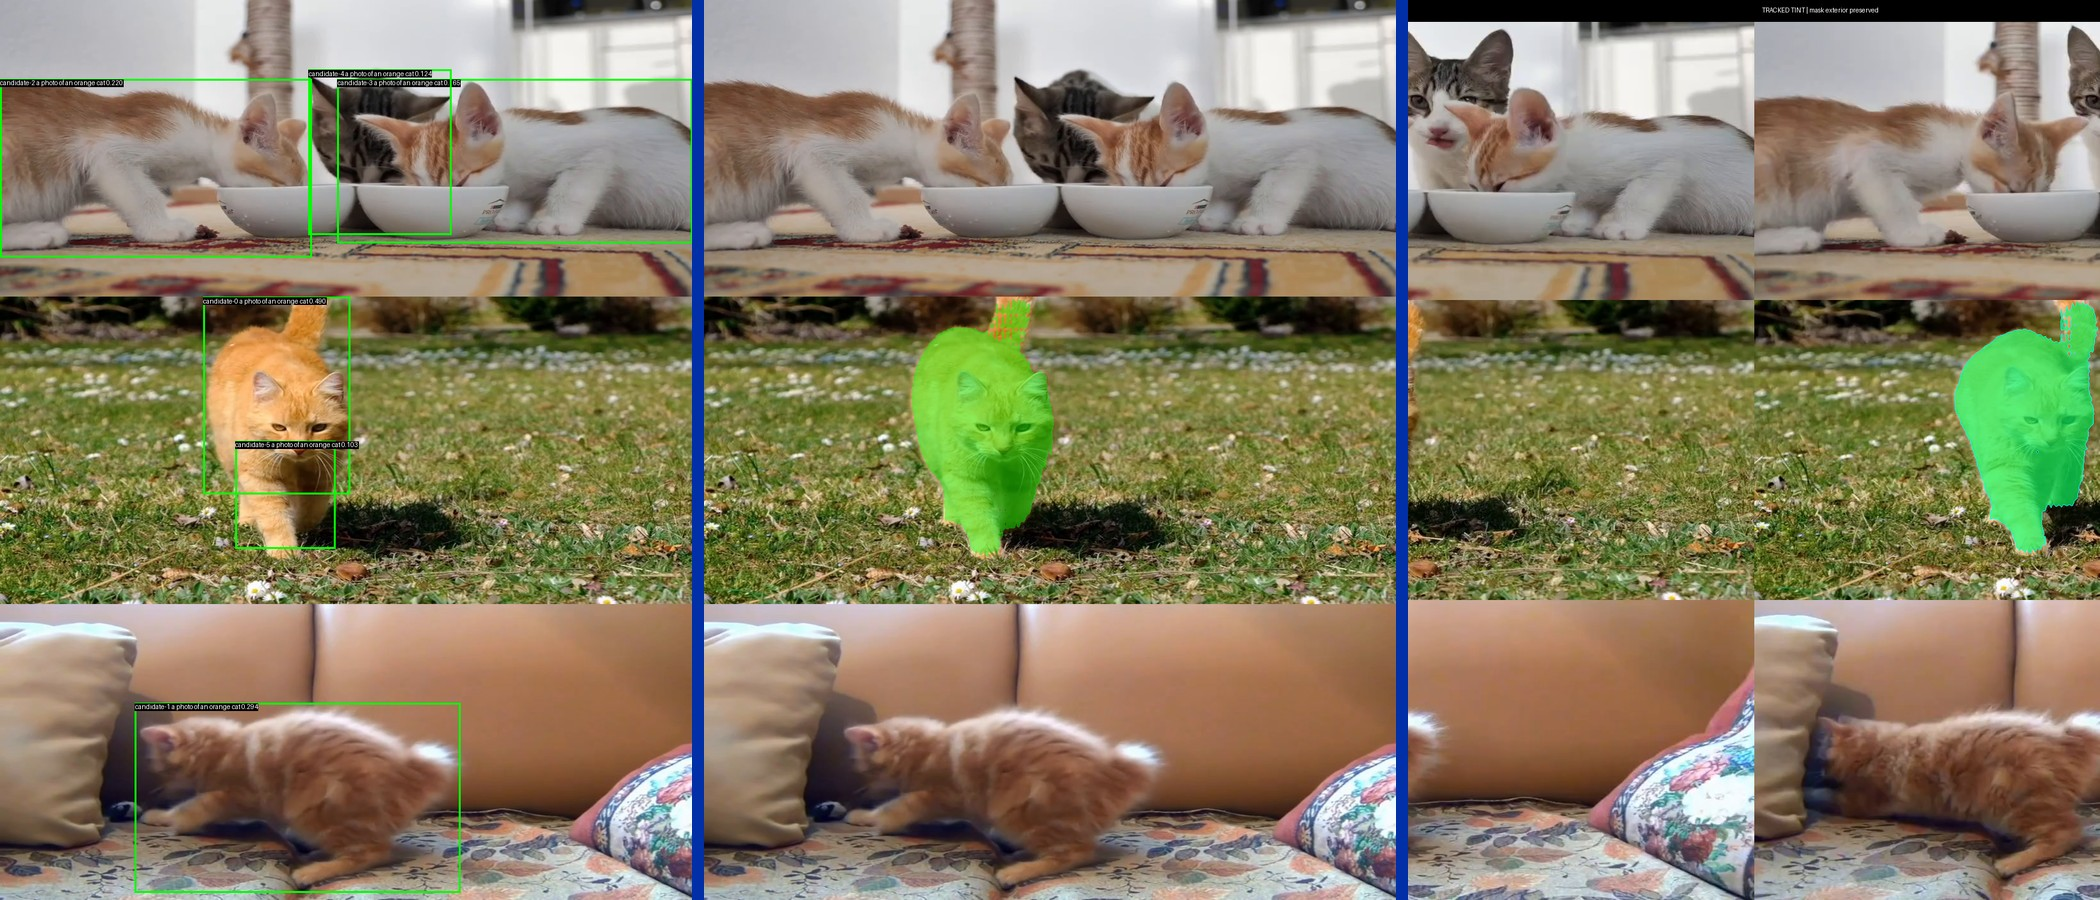
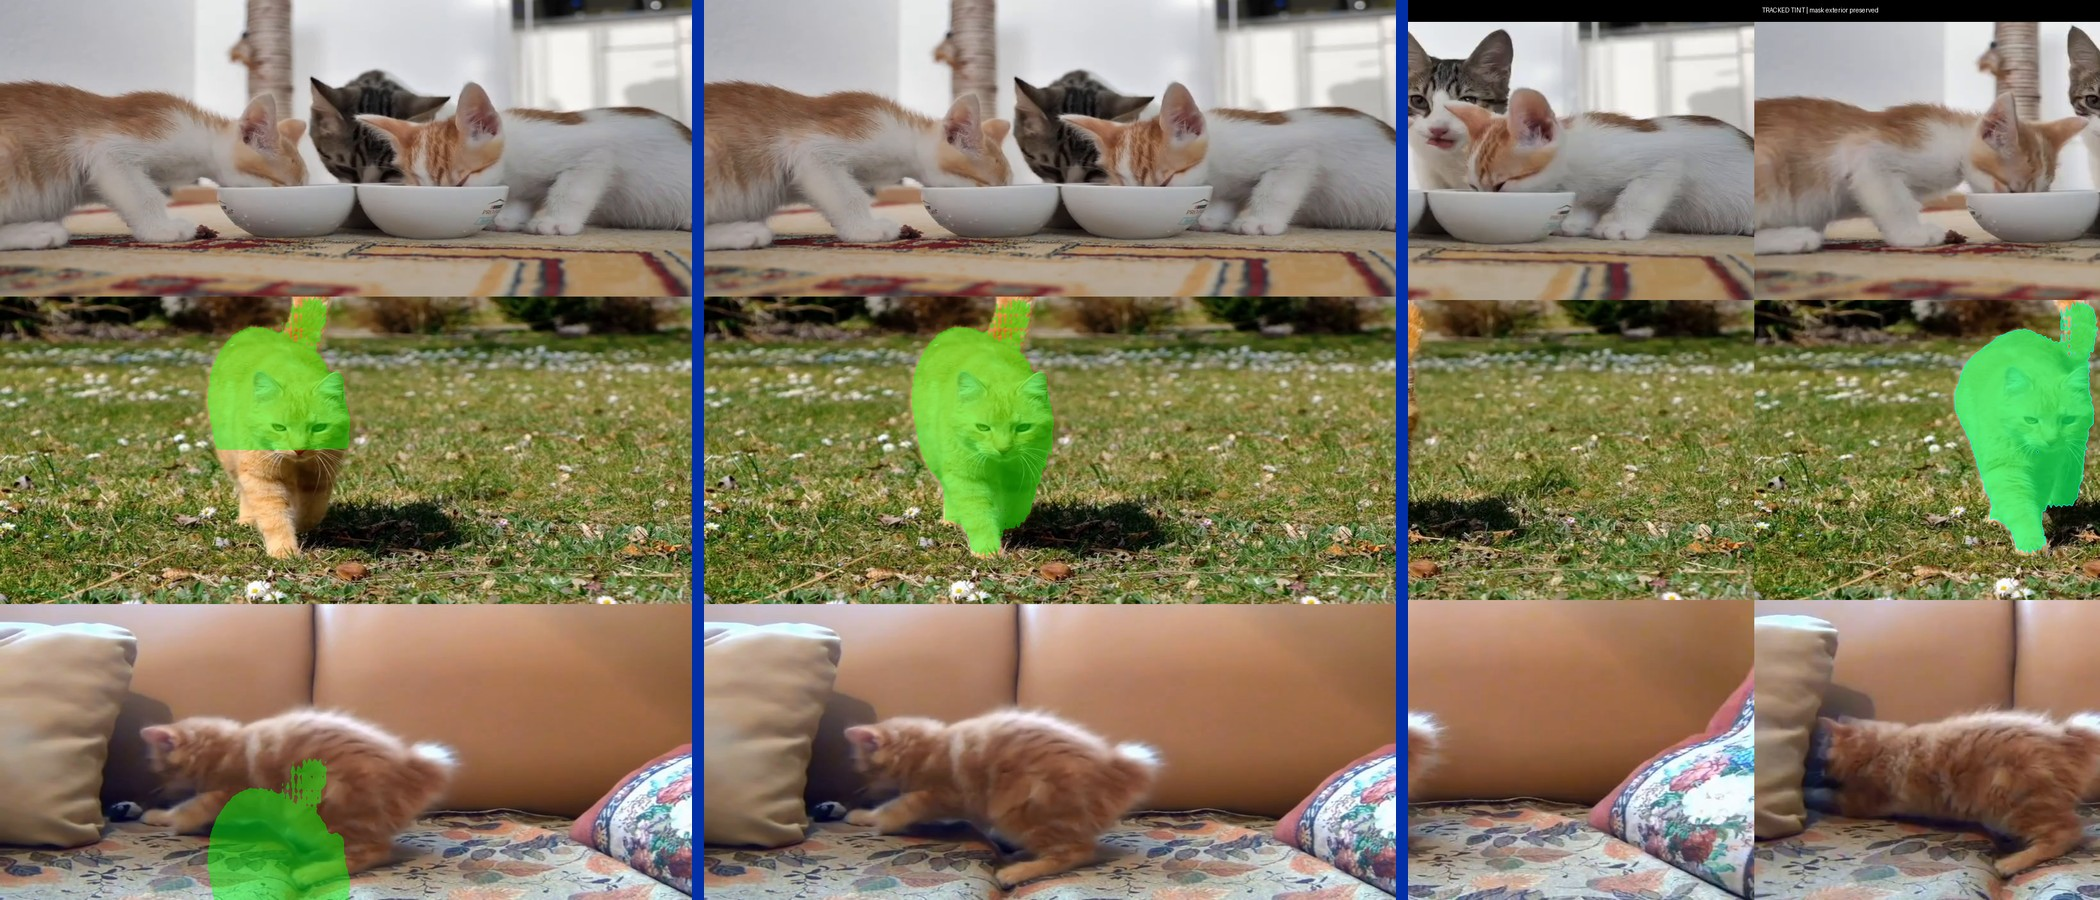
new push

diff --git a/android/docs/ppt/live-photo-agent-innovation/index.html b/android/docs/ppt/live-photo-agent-innovation/index.html
@@ -1613,8 +1613,8 @@ RESULT                     = content://media/.../2055</div><div class="dense-gri
       <main class="dense-content">
         <div class="dense-flow"><article class="dense-flow-node"><b>QWEN</b><strong>TargetPredicate</strong><span>concept / attribute / spatial / quantifier / exclude</span></article><article class="dense-flow-node"><b>OWLv2</b><strong>语言候选框</strong><span>宽泛 9 候选 → 语言澄清 → 唯一候选</span></article><article class="dense-flow-node"><b>EdgeTAM</b><strong>Mask Track</strong><span>封面条件帧双向传播 / 遮挡判空 / 重入恢复</span></article><article class="dense-flow-node"><b>VALIDATOR</b><strong>ScopeCertificate</strong><span>唯一性 / 时间覆盖 / 保护区 / evidence hash</span></article><article class="dense-flow-node"><b>RENDER</b><strong>GLES / MediaCodec</strong><span>mask 外 0 变化 / PTS / AAC / 私有 review</span></article></div>
         <div class="dense-cols-5-7" style="flex:1">
-          <section class="dense-panel accent"><div class="dense-panel-head"><h2>真实证据：候选 → Mask → 局部效果</h2><span>DEVICE + HOST DIFF</span></div><figure class="dense-media" style="flex:1"><img src="images/10-grounding-proof.jpg" data-image-slot="s15-grounding-21x9" alt="语言候选、精确Mask和跟踪局部调色证据"><figcaption>左：歧义候选 · 中：精确 Mask · 右：tracked tint</figcaption></figure><div class="dense-callout"><strong>输入仍只有语言：</strong>框、Mask、pointer、图银行选择与证书均为内部事实，不转嫁给用户。</div></section>
-          <section class="dense-panel"><div class="dense-panel-head"><h2>部署故障、定位证据与修复</h2><span>QAIRT / GRAPH TOPOLOGY</span></div><table class="dense-table"><thead><tr><th>故障</th><th>证据</th><th>修复 / 当前边界</th></tr></thead><tbody><tr><td>QAIRT 2.50 / 2.51 decoder 半幅 Mask 复制</td><td>两个版本错误 SHA 相同；同 DLC 换 runtime 即复现；TFLite/XNNPACK 正确</td><td class="accent-cell">固定 2.45；单帧 IoU 0.9678；2.50/2.51 禁用</td></tr><tr><td>动态 validity 图远程正确、vivo 多槽失败</td><td>同 3-memory/3-pointer：AI Hub 75.85dB，vivo 28.05dB</td><td class="accent-cell">去动态 bias，固定 3/3 图恢复 75.48dB；按 cardinality 选图</td></tr><tr><td>公开 recipe 缺 memory attention</td><td>约 2.96M 参数模块未导出；早期 host PyTorch 不等于全 NPU</td><td class="accent-cell">补齐 1/1…7/7 与 7/8…7/16 固定图银行</td></tr><tr><td>图银行包体与上下文过大</td><td>约 560MiB DLC / 234MiB context；weight sharing 返回 0x138f</td><td class="accent-cell">研究构建显式开关；包体仍是生产 Gate</td></tr><tr><td>Locator Android 输入可能漂移</td><td>tokenizer 16 tokens 与 Python 逐项一致；1080×1440 预处理 133.93dB</td><td class="accent-cell">QNN 2.45 contexts 在 S26 / vivo 输出逐字节一致</td></tr></tbody></table></section>
+          <section class="dense-panel accent"><div class="dense-panel-head"><h2>真实证据：错误 Mask → 正确 Mask → 局部效果</h2><span>RUNTIME VERSION DIFF</span></div><figure class="dense-media" style="flex:1"><img src="images/10-grounding-proof.jpg" data-image-slot="s15-grounding-21x9" alt="QAIRT 2.50上下半幅重复Mask、QAIRT 2.45正确单目标Mask和跟踪局部调色证据"><figcaption>左：2.50 上半 Mask 复制到下半 · 中：2.45 单目标 Mask · 右：tracked tint</figcaption></figure><div class="dense-callout"><strong>输入仍只有语言：</strong>框、Mask、pointer、图银行选择与证书均为内部事实，不转嫁给用户。</div></section>
+          <section class="dense-panel"><div class="dense-panel-head"><h2>部署故障、定位证据与修复</h2><span>QAIRT / GRAPH TOPOLOGY</span></div><table class="dense-table"><thead><tr><th>故障</th><th>证据</th><th>修复 / 当前边界</th></tr></thead><tbody><tr><td>QAIRT 2.50 / 2.51 decoder 半幅 Mask 复制</td><td>两个版本输出的错误 Mask SHA-256 相同；同 DLC 换 runtime 即复现；TFLite/XNNPACK 正确</td><td class="accent-cell">固定 2.45；单帧 IoU 0.9678；具体算子未定位，2.50/2.51 禁用</td></tr><tr><td>动态 validity 图远程正确、vivo 多槽失败</td><td>同 3-memory/3-pointer：AI Hub 75.85dB，vivo 28.05dB</td><td class="accent-cell">去动态 bias，固定 3/3 图恢复 75.48dB；按 cardinality 选图</td></tr><tr><td>公开 recipe 缺 memory attention</td><td>约 2.96M 参数模块未导出；早期 host PyTorch 不等于全 NPU</td><td class="accent-cell">补齐 1/1…7/7 与 7/8…7/16 固定图银行</td></tr><tr><td>图银行包体与上下文过大</td><td>约 560MiB DLC / 234MiB context；weight sharing 返回 0x138f</td><td class="accent-cell">研究构建显式开关；包体仍是生产 Gate</td></tr><tr><td>Locator Android 输入可能漂移</td><td>tokenizer 16 tokens 与 Python 逐项一致；1080×1440 预处理 133.93dB</td><td class="accent-cell">QNN 2.45 contexts 在 S26 / vivo 输出逐字节一致</td></tr></tbody></table></section>
         </div>
         <div class="dense-stat-strip"><div class="dense-stat"><b>0.9536</b><strong>17 帧最低 host IoU</strong><span>走满 16 个真实 pointer</span></div><div class="dense-stat"><b>0.9789</b><strong>自然遮挡完整恢复</strong><span>完全遮挡判空</span></div><div class="dense-stat"><b>0.9333</b><strong>快速镜头重入 IoU</strong><span>出画两帧判空</span></div><div class="dense-stat"><b>339/339 · 0</b><strong>完整跟踪 / Mask 外变化</strong><span>EOS-derived · deterministic effect</span></div></div>
       </main>
